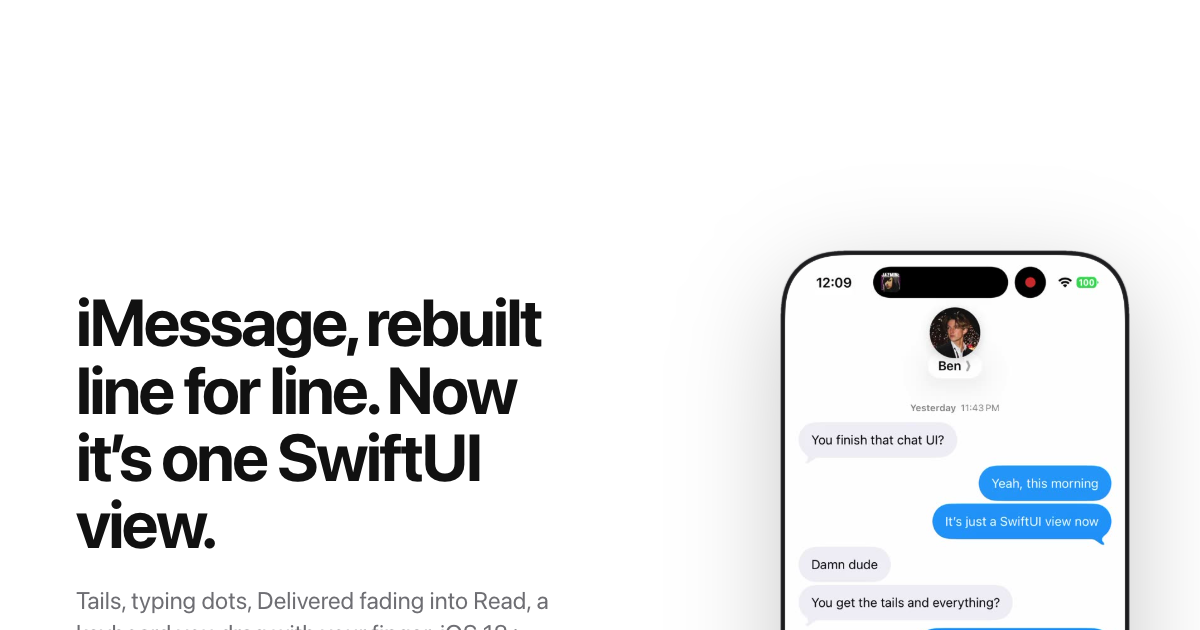
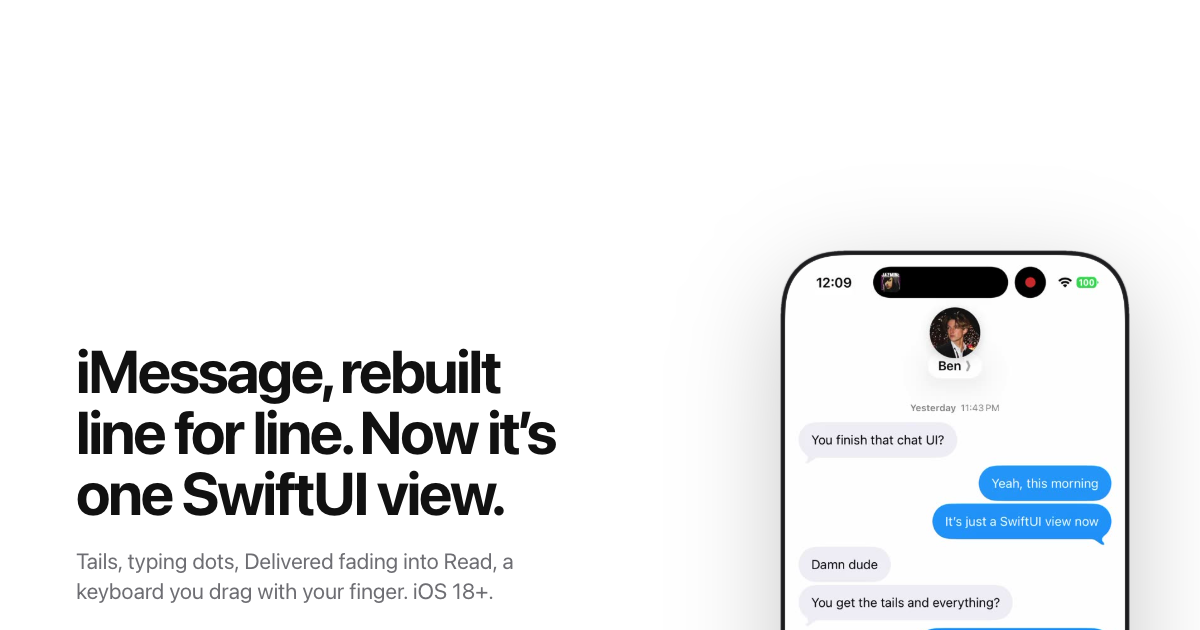
OG card from the real recording
Claude-Session: https://claude.ai/code/session_01MMbGZu4E2YUQ8MsSFg6VZD

diff --git a/og.html b/og.html
@@ -3,9 +3,9 @@
 <style>
 body { margin: 0; width: 1200px; height: 630px; overflow: hidden; background: #fff; color: #111; font-family: -apple-system, BlinkMacSystemFont, "SF Pro Display", "Helvetica Neue", Inter, sans-serif; -webkit-font-smoothing: antialiased; }
 .card { position: relative; width: 1200px; height: 630px; display: grid; grid-template-columns: 1fr 420px; align-items: center; padding: 0 0 0 76px; box-sizing: border-box; }
-h1 { margin: 0; font-size: 66px; font-weight: 700; letter-spacing: -0.04em; line-height: 1.02; max-width: 12ch; }
-p { margin: 26px 0 0; font-size: 24px; line-height: 1.4; color: #6e6e73; max-width: 22em; }
-.by { margin-top: 34px; display: flex; align-items: center; gap: 10px; font-size: 20px; font-weight: 600; color: #111; }
+h1 { margin: 0; font-size: 60px; font-weight: 700; letter-spacing: -0.04em; line-height: 1.02; max-width: 13ch; }
+p { margin: 22px 0 0; font-size: 22px; line-height: 1.4; color: #6e6e73; max-width: 22em; }
+.by { margin-top: 26px; display: flex; align-items: center; gap: 10px; font-size: 20px; font-weight: 600; color: #111; }
 .by svg { width: 26px; height: 26px; }
 .phone { --w: 340px; --pad: calc(var(--w) * 18 / 1206); position: relative; width: calc(var(--w) + 2 * var(--pad)); aspect-ratio: 1242 / 2658; margin-top: 250px; filter: drop-shadow(0 30px 50px rgba(0,0,0,.22)); }
 .phone .rail { position: absolute; inset: 0; width: 100%; height: 100%; z-index: 3; }
